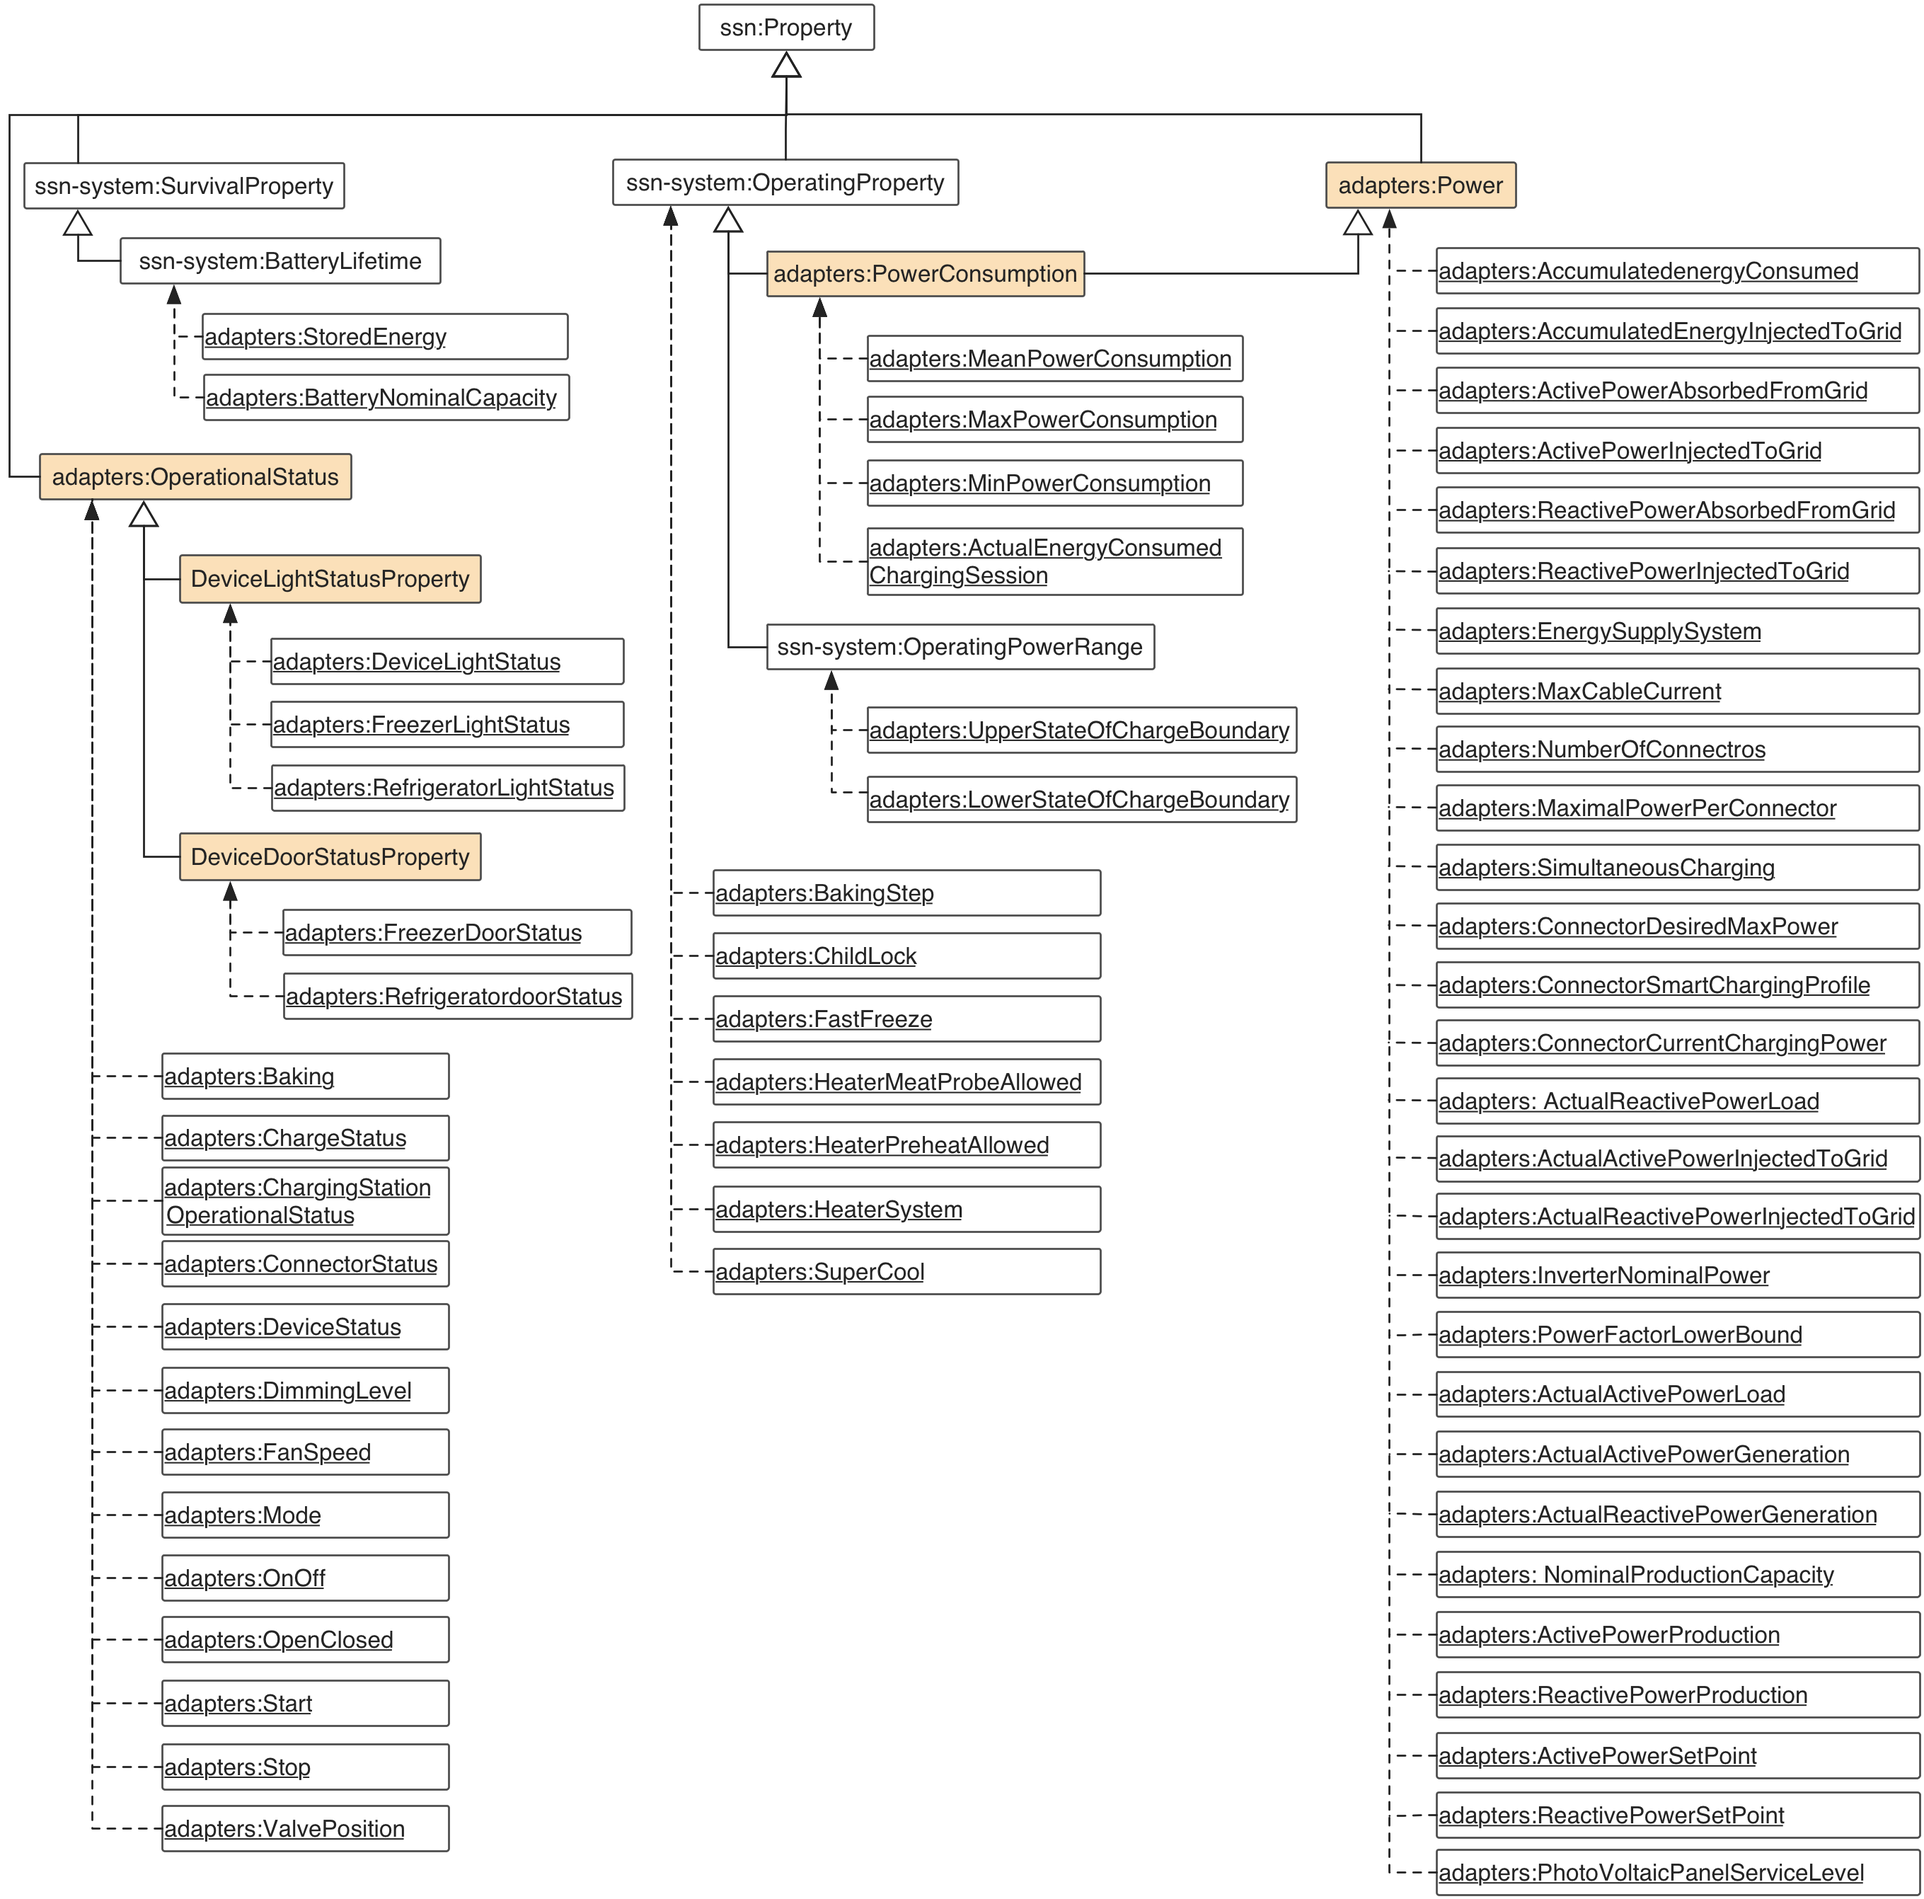
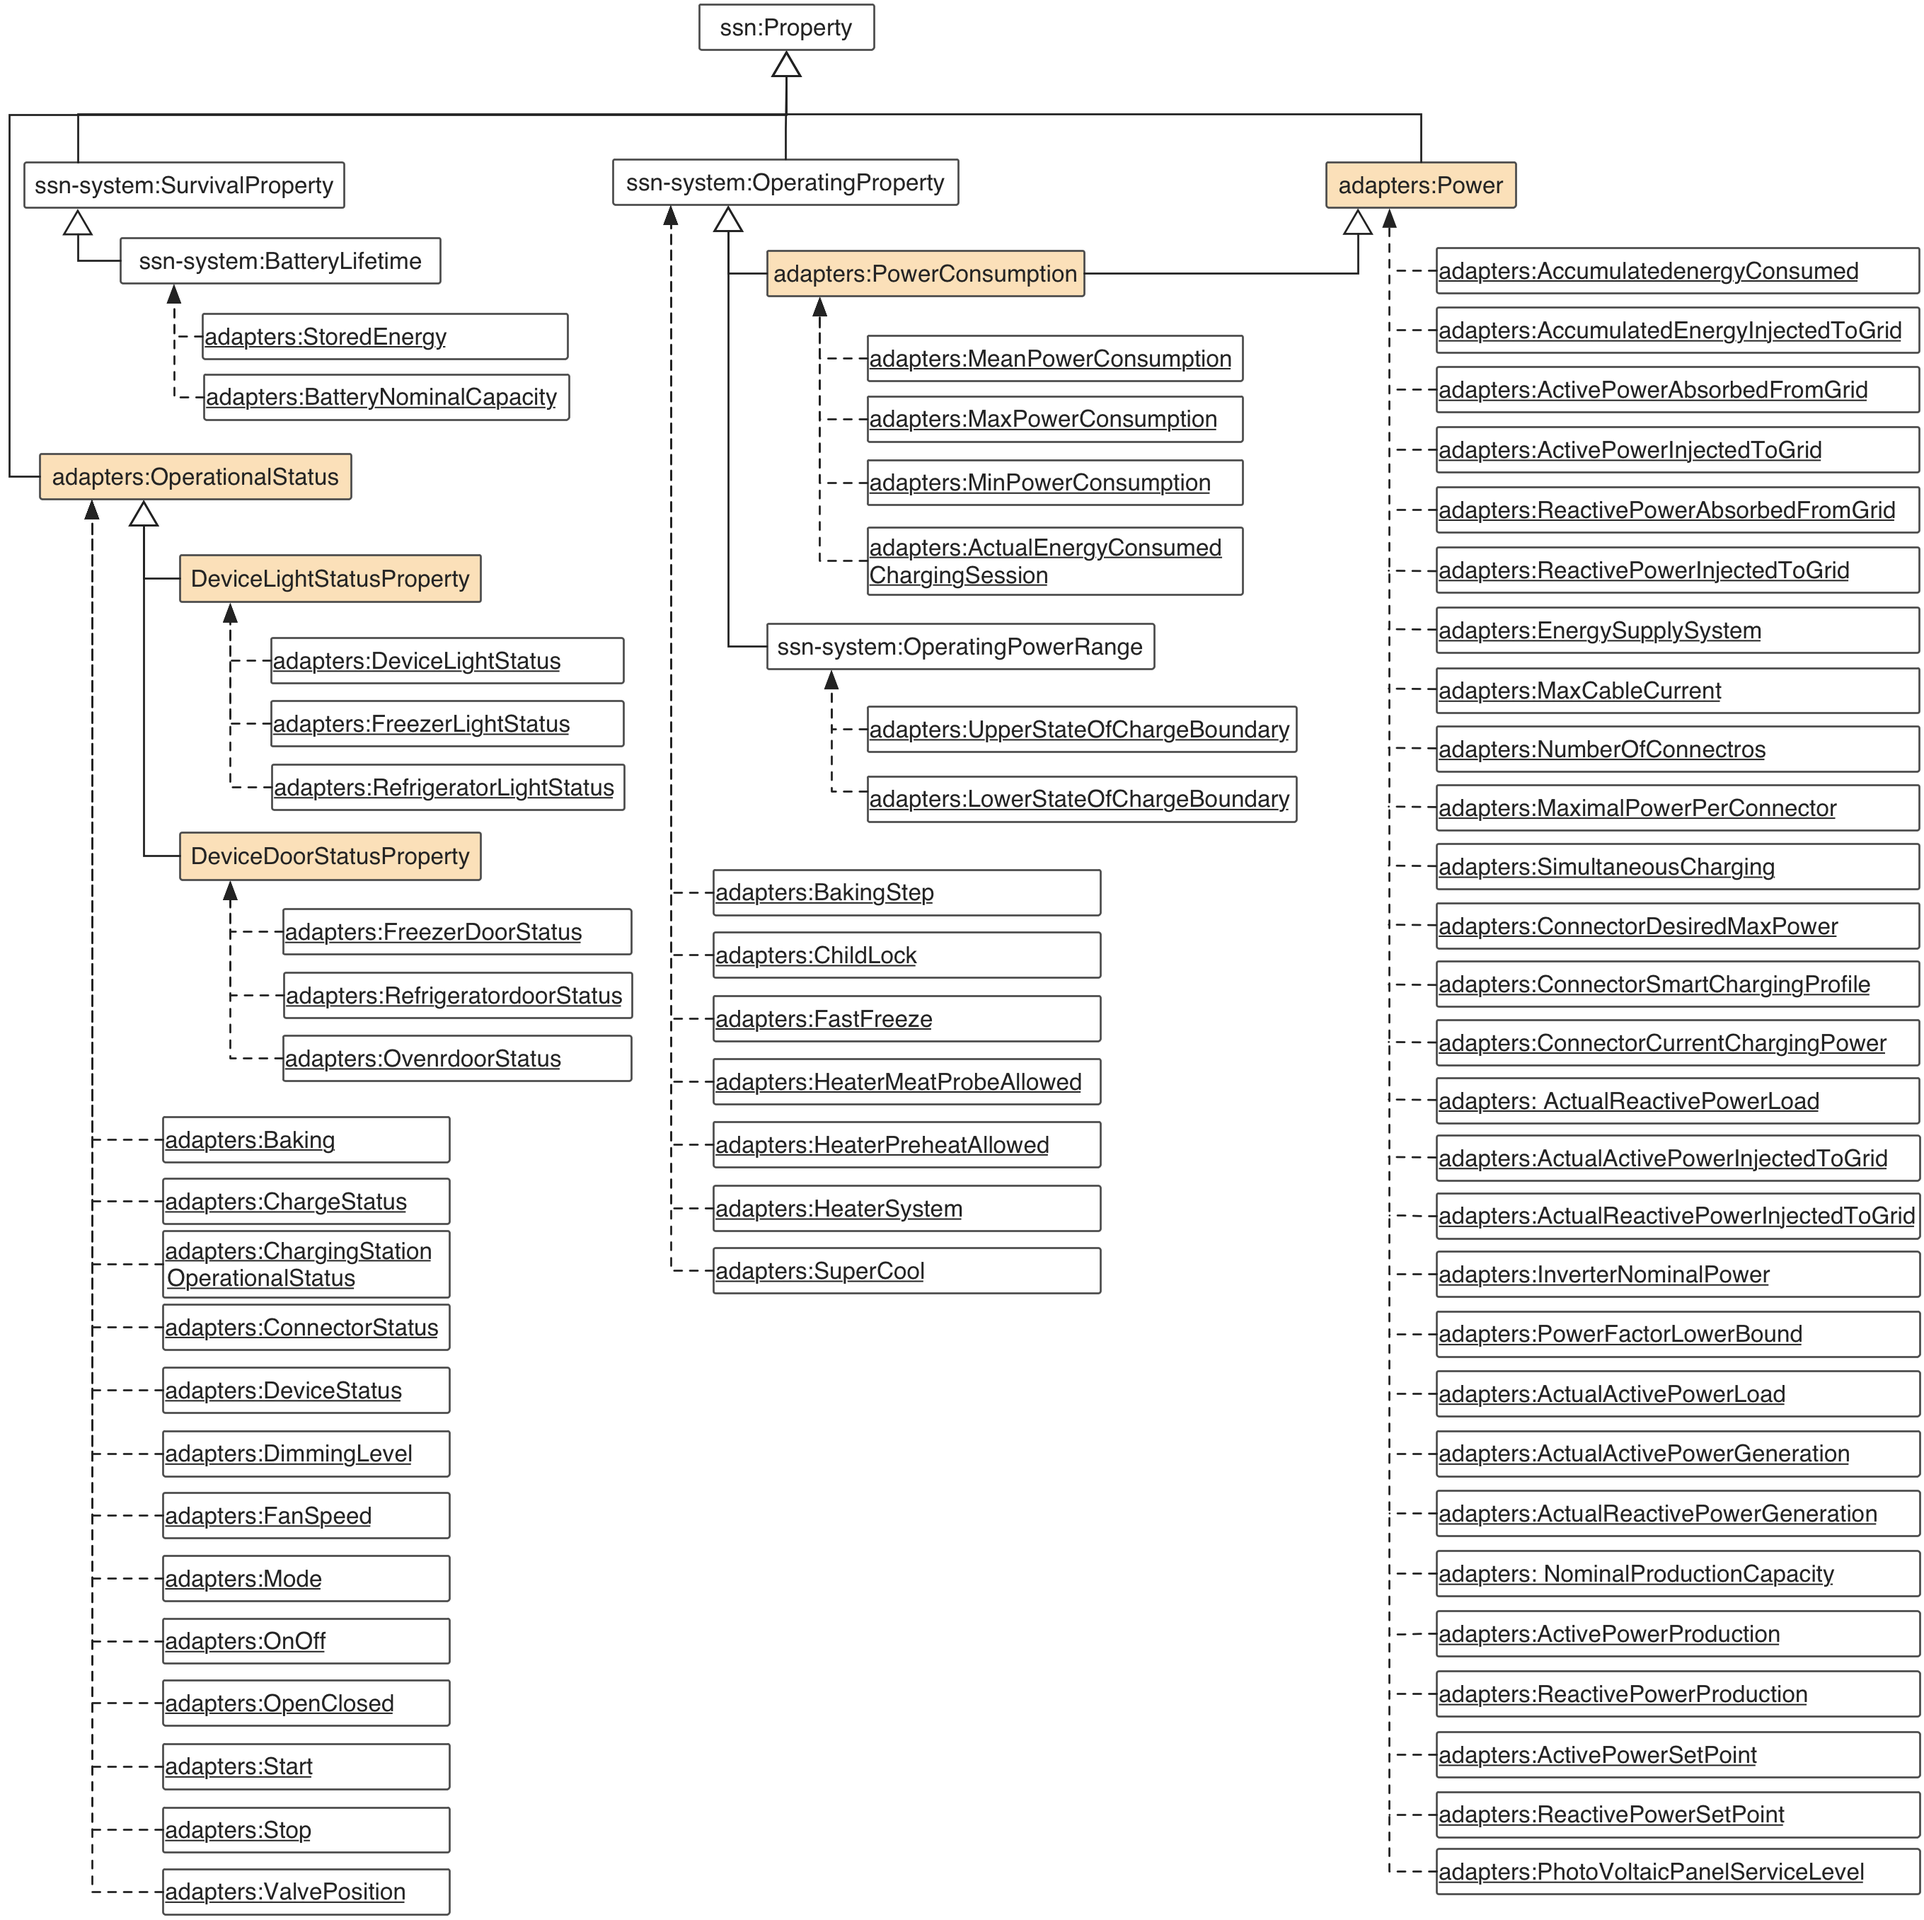
added OvenDoorStatus
added instance for OvenDoorStatus, updated version and documentation

Changed region(s): [[0.6797, 0.0928, 1.0, 1.0], [0.0, 0.0928, 0.3398, 1.0], [0.3089, 0.0928, 0.6797, 0.6806]]

diff --git a/OnToology/ontology/adapters.ttl/documentation/index-en.html b/OnToology/ontology/adapters.ttl/documentation/index-en.html
@@ -60,7 +60,7 @@ function loadTOC(){
 <dt>Ontology URI</dt>
 <dd><a href="http://iot.linkeddata.es/def/adapters#">http://iot.linkeddata.es/def/adapters#</a></dd>
 <dt>Revision:</dt>
-<dd>0.1.2</dd>
+<dd>0.1.3</dd>
 <dl><dt>Authors:</dt>
 <dd><a href="http://purl.org/net/mpoveda">http://purl.org/net/mpoveda</a></dd><dd><a href="http://www.garcia-castro.com/foaf.rdf#me">http://www.garcia-castro.com/foaf.rdf#me</a></dd></dl>
 
